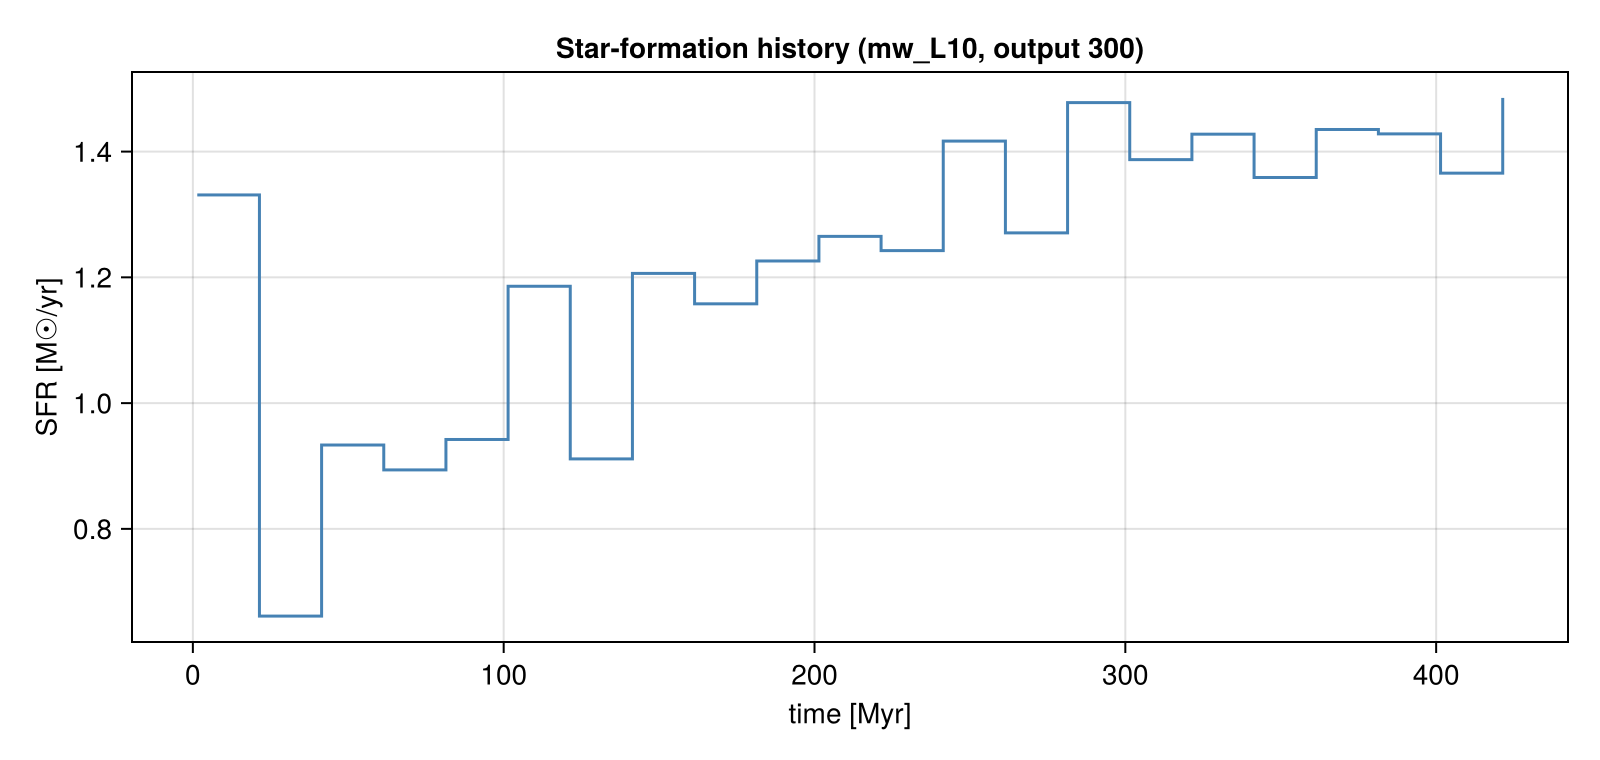
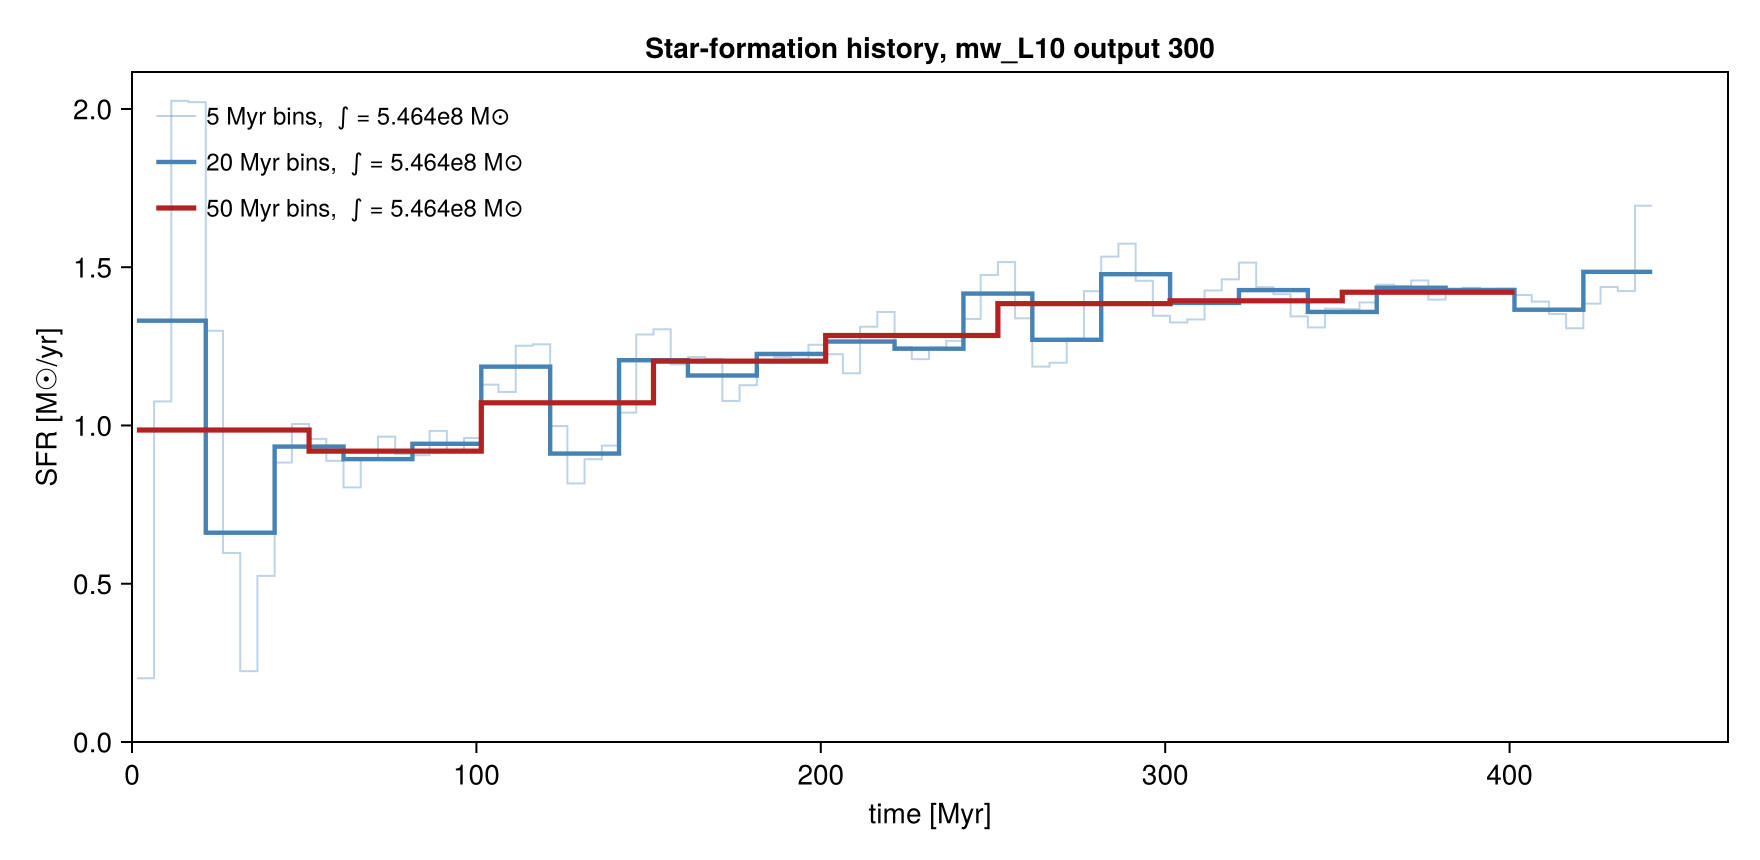
fix(sfr): round the bin count up so no star is dropped
- t0:tbinsize:t1 stopped early, losing the remainder of the span
- with 50 Myr bins that was 11.6% of the mass, all of it the most recent
- the integral is now independent of tbinsize; regression test added
- the docs plot shows three bin widths and their identical integrals

diff --git a/docs/src/sfr.md b/docs/src/sfr.md
@@ -47,7 +47,7 @@ println("hydro cells      : ", length(gas.data))
 | ||_|| |   |___|   |  | |   _   |
 |_|   |_|_______|___|  |_|__| |__|
 Mera v1.8.0 | Julia 1.12.7 | 8 threads
-[Mera]: 2026-09-09T18:40:09.061
+[Mera]: 2026-09-09T19:08:00.202
 Code: RAMSES
 output [300] summary:
 mtime: 2023-04-09T05:34:09
@@ -86,7 +86,7 @@ compilation-file: false
 makefile:         true
 patchfile:        true
 =======================================================
-[Mera]: Get particle data: 2026-09-09T18:40:13.027
+[Mera]: Get particle data: 2026-09-09T19:08:04.228
 Using threaded processing with 8 threads
 Key vars=(:level, :x, :y, :z, :id, :family, :tag)
 Using var(s)=(1, 2, 3, 4, 7) = (:vx, :vy, :vz, :mass, :birth)
@@ -100,7 +100,7 @@ Combining results from 8 thread(s)...
 Found 5.445150e+05 particles
 Memory used for data table :38.428720474243164 MB
 -------------------------------------------------------
-[Mera]: Get hydro data: 2026-09-09T18:40:16.490
+[Mera]: Get hydro data: 2026-09-09T19:08:07.695
 Key vars=(:level, :cx, :cy, :cz)
 Using var(s)=(1, 2, 3, 4, 5, 6, 7) = (:rho, :vx, :vy, :vz, :p, :scalar_00, :scalar_01)
 domain:
@@ -112,7 +112,7 @@ zmin::zmax: 0.0 :: 1.0  	==> 0.0 [kpc] :: 48.0 [kpc]
    Files to be processed: 640
    Compute threads: 8
    GC threads: 8
-Processing files: 100%|██████████████████████████████████████████████████| Time: 0:00:18 (28.78 ms/it)
+Processing files: 100%|██████████████████████████████████████████████████| Time: 0:00:18 (29.43 ms/it)
 ✓ File processing complete! Combining results...
 ✓ Data combination complete!
 Final data size: 28320979 cells, 7 variables
@@ -122,7 +122,7 @@ Creating Table from 28320979 cells with max 8 threads...
   Available threads: 8
   Using parallel processing with 8 threads
   Creating IndexedTable with 11 columns...
-✓ Table created in 41.563 seconds
+✓ Table created in 39.77 seconds
 Memory used for data table :2.321086215786636 GB
 -------------------------------------------------------
 particles loaded : 544515
@@ -151,15 +151,15 @@ println("mean SFR     [M☉/yr] : ", sum(s)/length(s))
 
 ```
 [ Info: sfr: using eta_sn=0.2 from the run's namelist to rebuild birth masses from the current :mass. Stars older than 5.0 Myr are scaled by 1/(1-eta_sn), which RAISES the rate. Pass eta_sn=0 to switch this off, or eta_sn=<value> to set it.
-number of time bins  : 22
-time range     [Myr] : (1.419158337486011, 421.419158337486)
+number of time bins  : 23
+time range     [Myr] : (1.419158337486011, 441.419158337486)
 peak SFR     [M☉/yr] : 1.485425
-mean SFR     [M☉/yr] : 1.227753409090909
-sum(s) * 20.0 * 1.0e6 = 5.402115e8
+mean SFR     [M☉/yr] : 1.1877467391304348
+sum(s) * 20.0 * 1.0e6 = 5.463635e8
 ```
 
 ```
-5.402115e8
+5.463635e8
 ```
 
 ### SN mass-loss correction
@@ -265,15 +265,42 @@ per-cell t_ff [Myr] range : (4.434042095351683, 158141.82257929075)
 
 ## Plot: the star-formation history
 
-A CairoMakie step plot of SFR(t), the standard SFH figure.
+The same history at three bin widths. The coarse curves are running means of the fine one, and the
+integral printed in the legend is the same for all three: **the rate you see depends on the binning,
+the mass that formed does not.** That is the check worth making on any SFH.
+
+The final bin reaches past the youngest star, so it averages over time the run does not cover. It is
+left out of the curves and kept in the integral.
 
 ```julia
 using CairoMakie
 
-fig = Figure(size=(800, 380))
-ax = Axis(fig[1,1]; xlabel="time [Myr]", ylabel="SFR [M☉/yr]",
-          title="Star-formation history (mw_L10, output 300)")
-stairs!(ax, t, s; step=:post, color=:steelblue)
+# `t` holds LEFT bin edges. Drop the final bin, which reaches past the youngest star, and close
+# the staircase on the right edge of the last complete one.
+function steps(t, s, bw)
+    n = length(t) - 1
+    vcat(t[1:n], t[n] + bw), vcat(s[1:n], s[n])
+end
+
+bins  = [5.0, 20.0, 50.0]
+style = [(color=(:steelblue, 0.35), linewidth=1.0),
+         (color=(:steelblue, 1.00), linewidth=2.2),
+         (color=(:firebrick,  1.00), linewidth=2.6)]
+
+fig = Figure(size=(880, 430))
+ax  = Axis(fig[1, 1]; xlabel="time [Myr]", ylabel="SFR [M☉/yr]",
+           title="Star-formation history, mw_L10 output 300",
+           xgridvisible=false, ygridvisible=false)
+
+for (bw, st) in zip(bins, style)
+    tb, sb = sfr(parts; tbinsize=bw)
+    M      = sum(sb) * bw * 1e6                    # every bin, the partial last one included
+    tc, sc = steps(tb, sb, bw)
+    stairs!(ax, tc, sc; step=:post, st...,
+            label="$(Int(bw)) Myr bins,  \u222b = $(round(M/1e8, digits=3))e8 M\u2299")
+end
+axislegend(ax; position=:lt, framevisible=false, labelsize=12)
+xlims!(ax, 0, nothing); ylims!(ax, 0, nothing)
 fig
 ```
 
